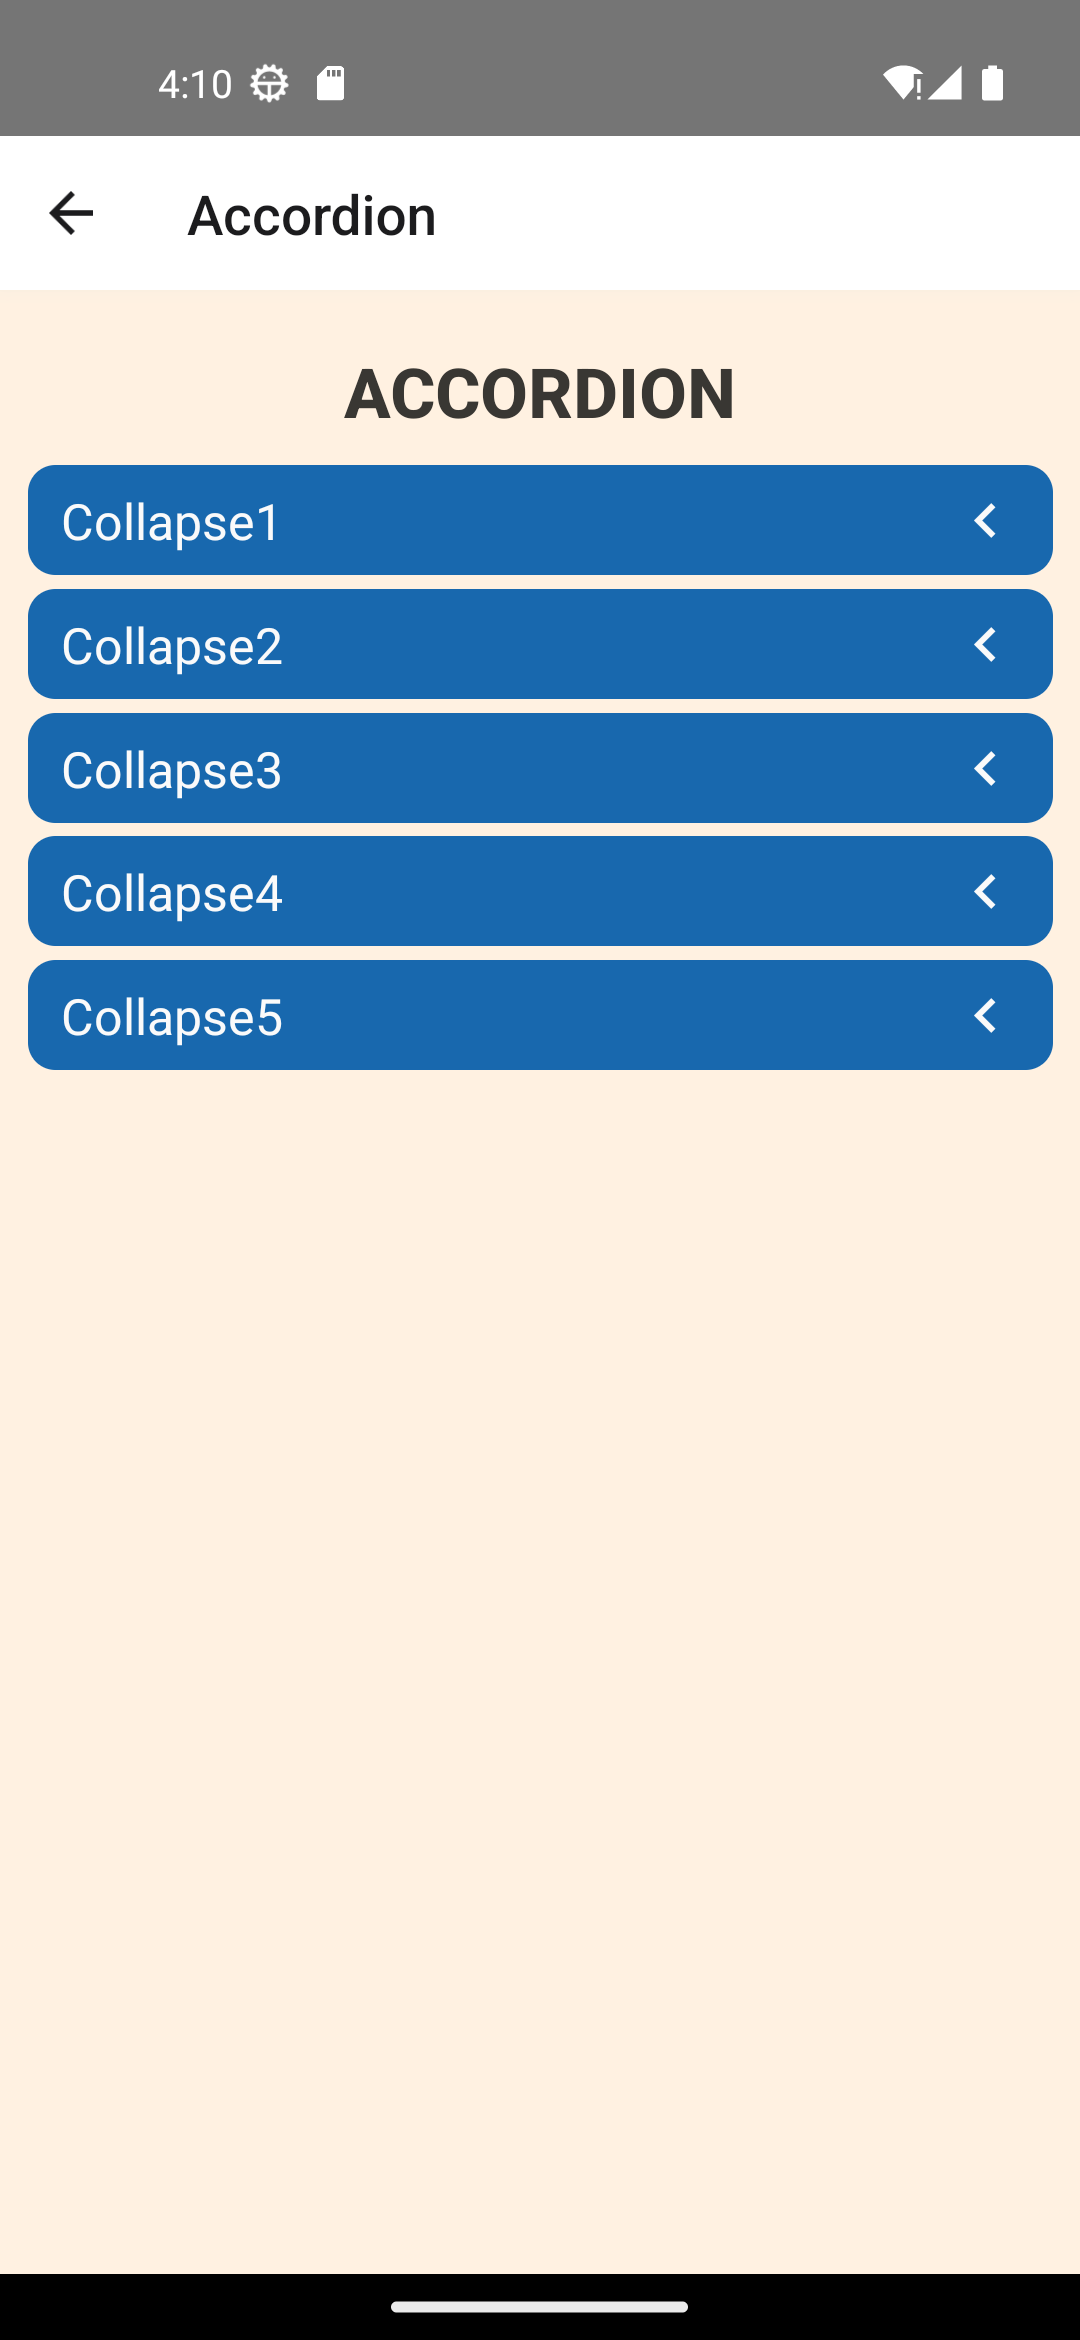
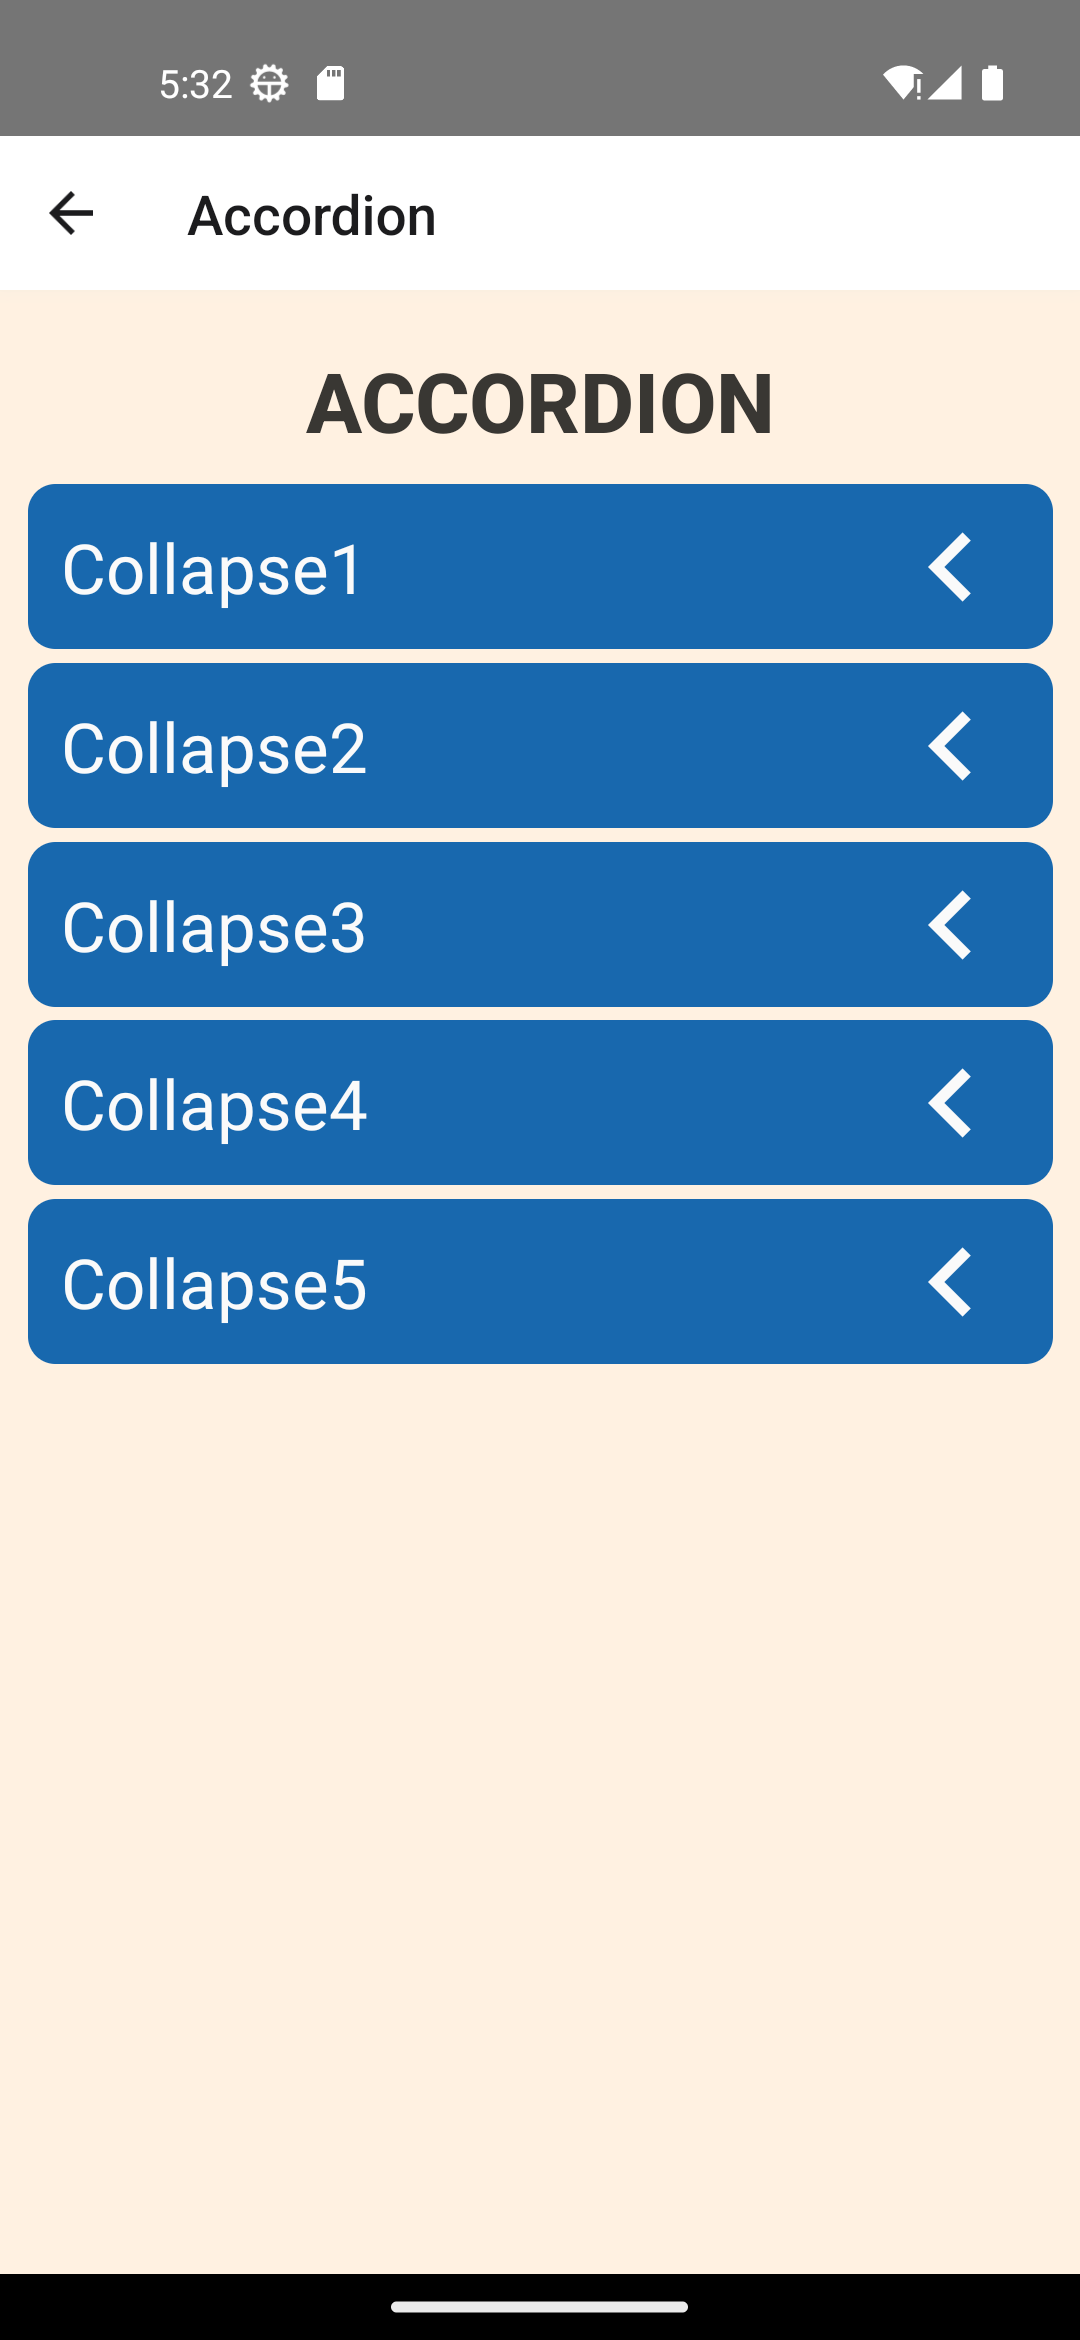
accordion header and content styling change

Changed region(s): [[0.0, 0.156, 0.9778, 0.5927], [0.1528, 0.0312, 0.2139, 0.0624]]

diff --git a/src/screens/Home/ComponentsScreens/AccordionScreen.js b/src/screens/Home/ComponentsScreens/AccordionScreen.js
@@ -33,7 +33,7 @@ const styles = StyleSheet.create({
         padding:10,
         color:"#393733",
         fontWeight:'800',
-        fontSize:25,
+        fontSize:30,
         textAlign:"center"
     },
     headerStyle:{
@@ -42,13 +42,15 @@ const styles = StyleSheet.create({
         backgroundColor:"#1868ae"//"#1e847f"
     },
     headerText:{
+        fontSize:25,
+        iconSize:50,
         color:"#fafafa"
     },
     contentContainer:{
         borderColor:0,
         //backgroundColor:"#d9a5b3"
     },
-    /*contentText:{
-        color:"#000000"
-    }*/
+    contentText:{
+        fontSize:20
+    }
 })

diff --git a/src/components/Accordian/Accordion.js b/src/components/Accordian/Accordion.js
@@ -67,7 +67,7 @@ const SingleAccordion = memo((props)=>{
             >
                 <Text style={[styles.accordianHeader, customStyles.headerText]}>{value.header}</Text>
                 <Animated.View style={{transform:[{rotate}]}}> 
-                    <MaterialIcons name="keyboard-arrow-left" color={customStyles.headerText.color} size={25}/>
+                    <MaterialIcons name="keyboard-arrow-left" color={customStyles.headerText.color} size={customStyles.headerText.iconSize}/>
                 </Animated.View>
             </TouchableOpacity>
             {isOpen ?
